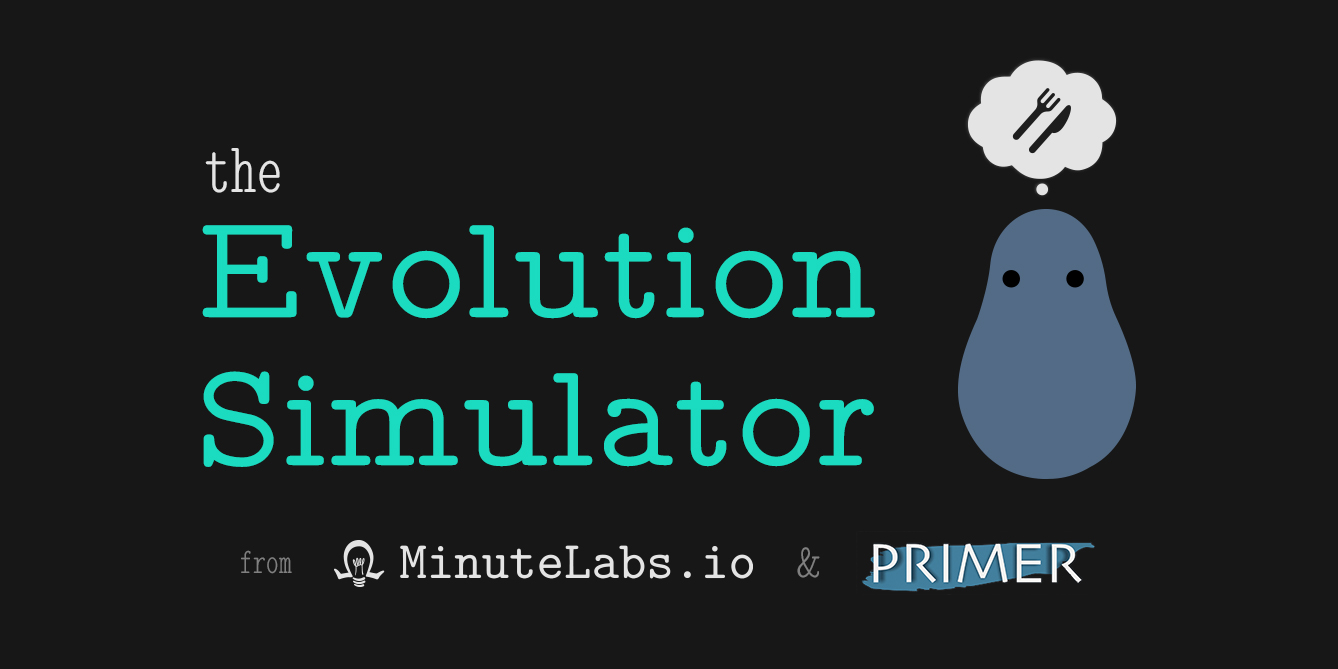
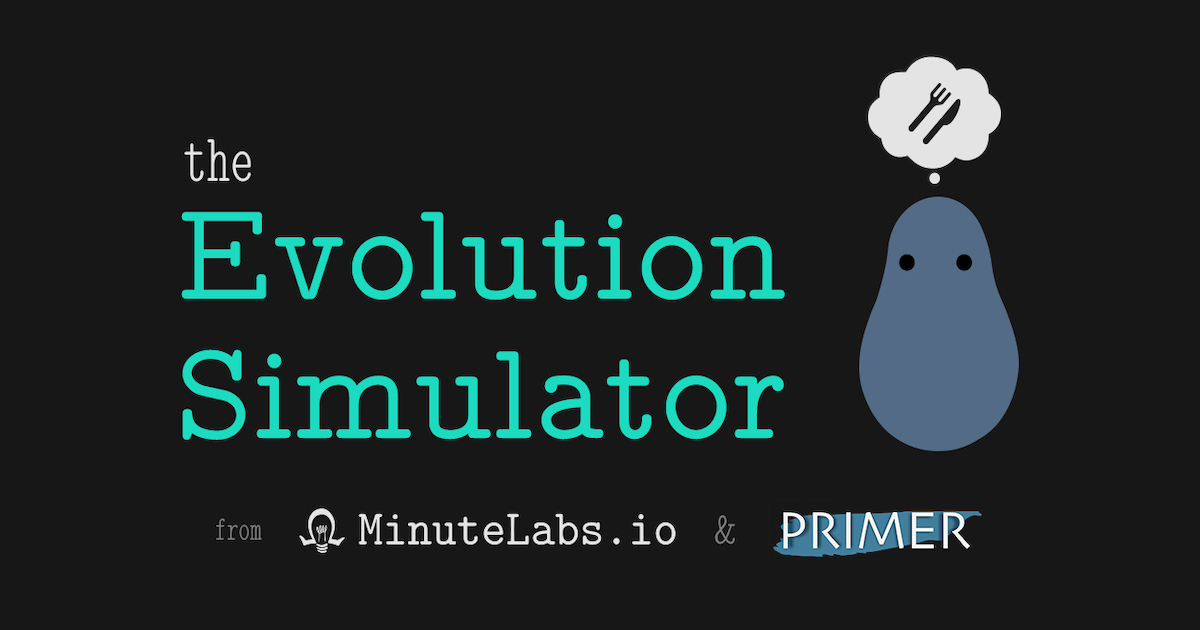
fix social thumbnail for twitter

diff --git a/public/index.html b/public/index.html
@@ -21,11 +21,11 @@
     <title><%= VUE_APP_LAB_NAME %> | MinuteLabs.io</title>
     <meta name="og:title" property="og:title" content="<%= VUE_APP_LAB_NAME %> | MinuteLabs.io">
     <meta name="description" content="<%= VUE_APP_LAB_DESCRIPTION %>">
-    <meta property="og:image" content="<%= VUE_APP_LAB_BASE %>/social-thumbnail.jpg">
+    <meta property="og:image" content="<%= VUE_APP_LAB_BASE %>/social-thumbnail-twitter.jpg">
     <meta property="og:type" content="website">
     <meta property="og:description" content="<%= VUE_APP_LAB_DESCRIPTION %>">
     <meta name="twitter:card" content="summary_large_image">
-    <meta name="twitter:image" content="<%= VUE_APP_LAB_BASE %>/social-thumbnail.jpg">
+    <meta name="twitter:image" content="<%= VUE_APP_LAB_BASE %>/social-thumbnail-twitter.jpg">
     <meta name="twitter:site" content="@minutelabsio">
     <meta name="twitter:creator" content="@minutelabsio">
   </head>
